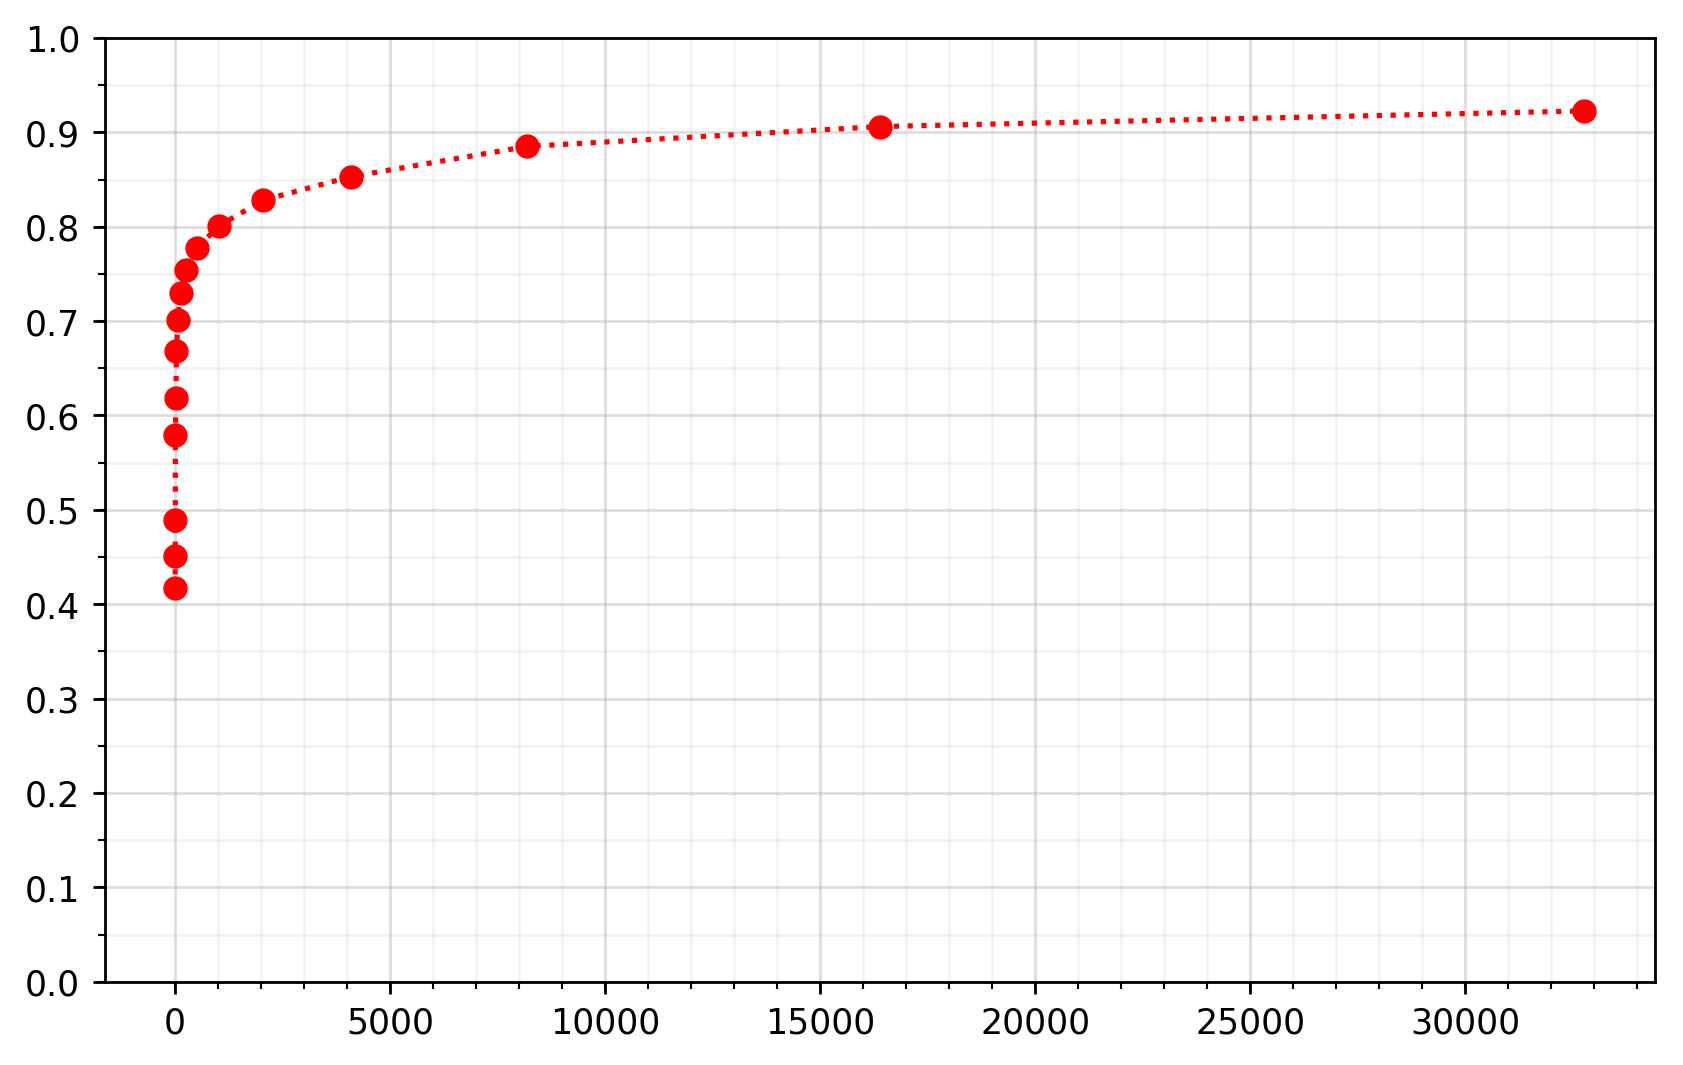
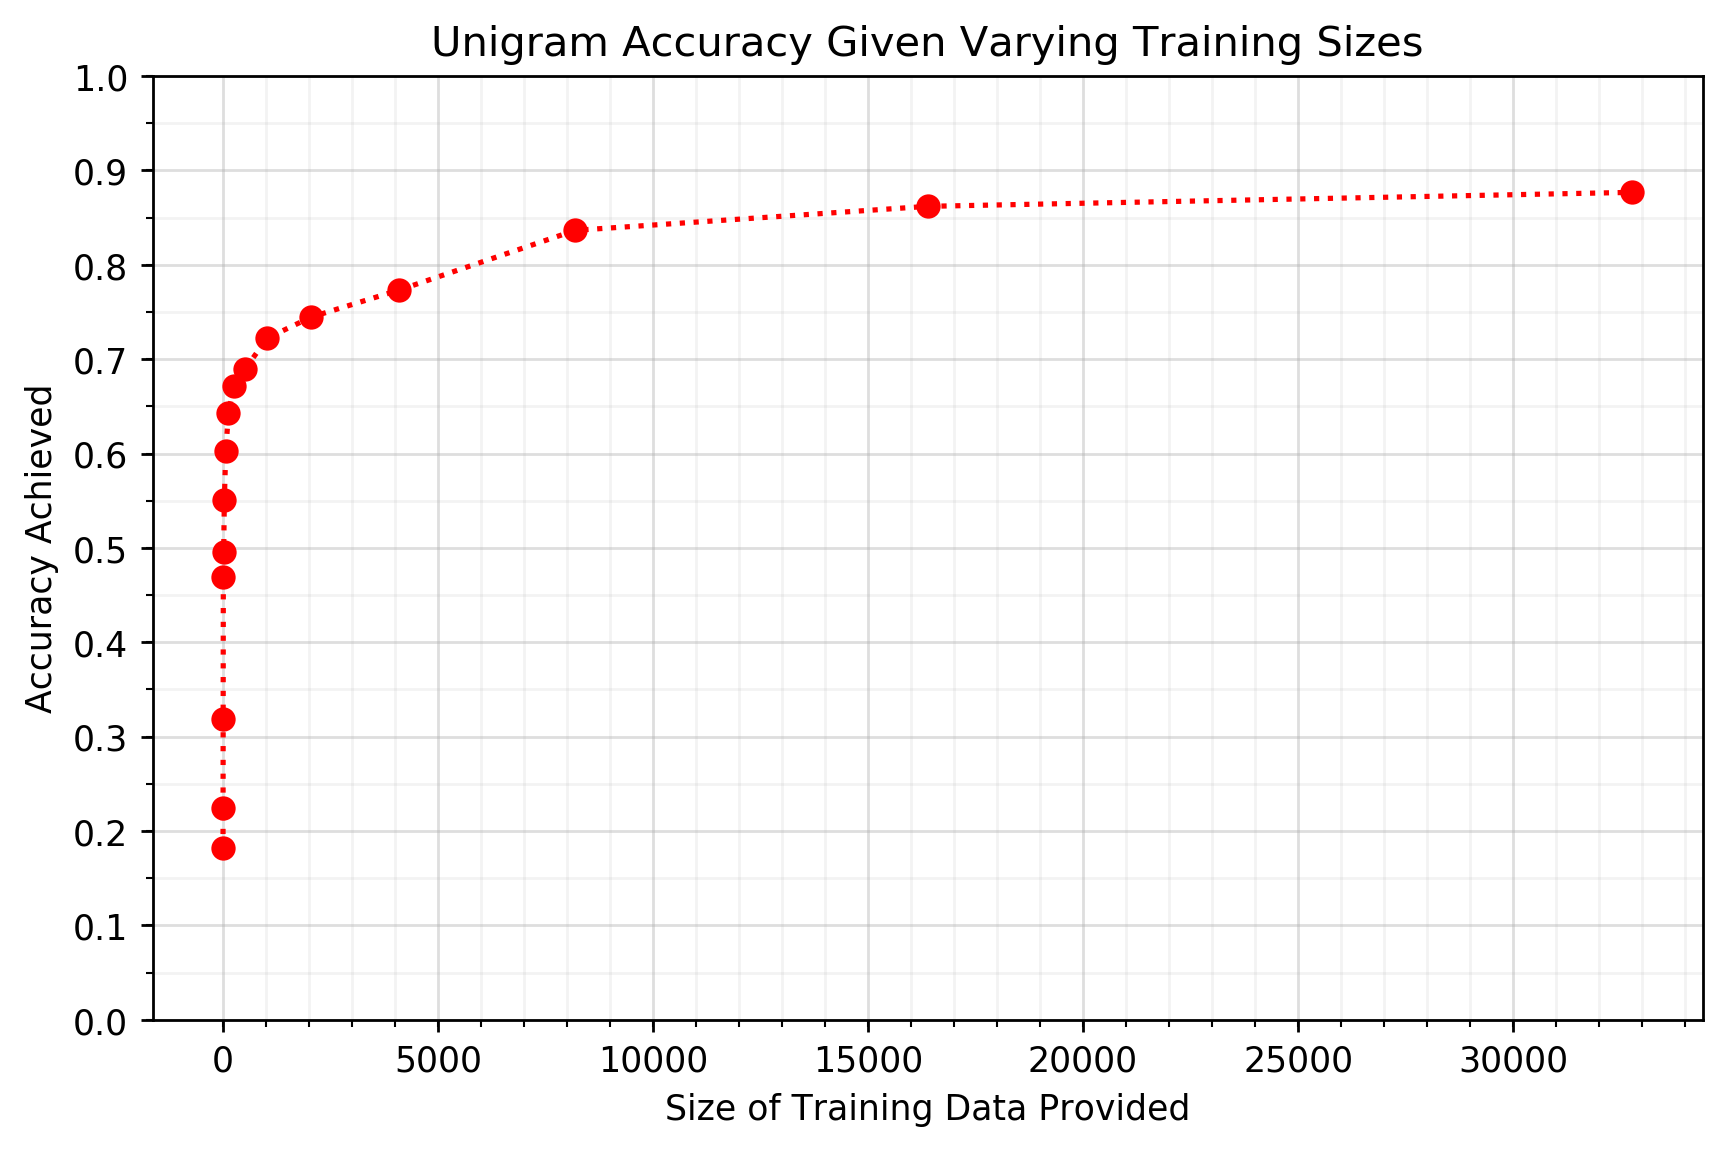
Assignment completed. Pushing final changes.

diff --git a/main.py b/main.py
@@ -96,10 +96,20 @@ cm = taggers.create_confusion_matrix(brown, "news", backoff_model)
 # Task 2:
 # ============================================================
 
+# declare the sizes we wish to use when training, and the container with which we will record their accuracies.
 sizes = 2 ** np.arange(16)
 accuracies = []
+
+# iterate over each of the sizes...
 for size in sizes:
-    model = taggers.backoff_model(all_words, all_tagged_words, all_tagged_sentences[:size], size)
-    accuracies.append(taggers.evaluate_accuracy(model, all_tagged_sentences[size:]))
     
-plot.plot(sizes[:-1], accuracies[:-1], "task-2")
+    # declare the training and testing set, based on this iterations size.
+    training_set = all_tagged_sentences[:size]
+    testing_set  = all_tagged_sentences[size:]
+    
+    # train our model using the training set, then evaluate it against the test set.
+    model = taggers.unigram_tagger(training_set, default_tagger)
+    accuracies.append(taggers.evaluate_accuracy(model, testing_set))
+    
+# finally plot the accuracies against the sizes using a standard line graph.
+plot.plot(sizes, accuracies, "task-2")

diff --git a/plot.py b/plot.py
@@ -55,9 +55,13 @@ def plot(x, y, save_name):
     ax.grid(which='minor', alpha=0.15)
     ax.grid(which='major', alpha=0.3)
     
+    plt.xlabel("Size of Training Data Provided")
+    plt.ylabel("Accuracy Achieved")
+    plt.title("Unigram Accuracy Given Varying Training Sizes")
+    
     # plot the data, ensuring the ytick is setup with a decent step size.
     plt.plot(x, y, ":ro")
-    plt.grid(True, drawstyle="steps")
+    plt.grid(True)
     plt.yticks(np.arange(0, 1.1, 0.1))
     
     # save the plotting to a local file.
